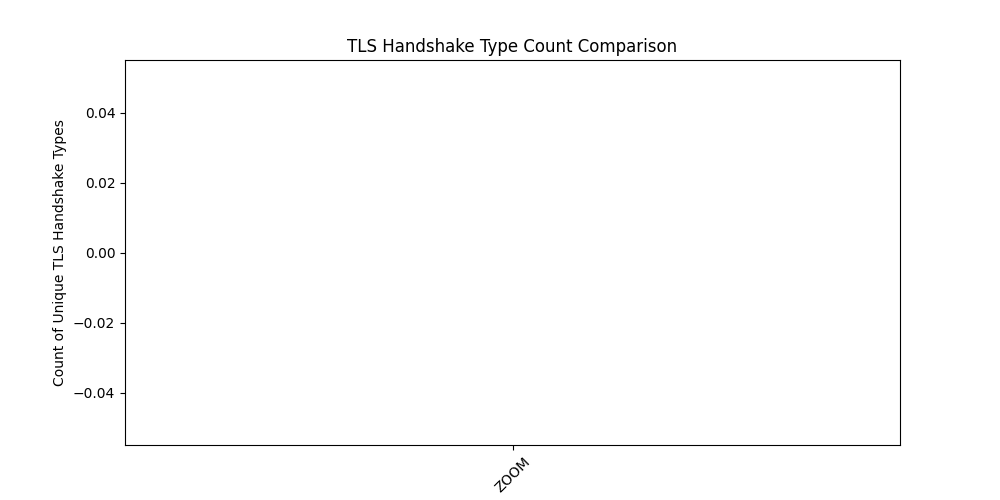
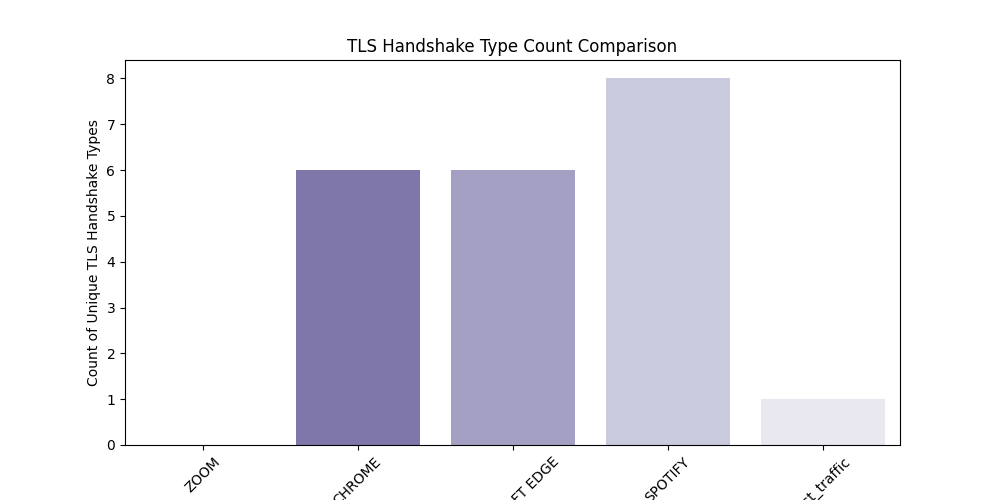
סופי

diff --git a/src/main.py b/src/main.py
@@ -17,145 +17,156 @@ CSV_DIR = RESULTS_DIR / "CSV_files"
 GRAPH_DIR = RESULTS_DIR / "Graphs"
 COMPARE_DIR = RESULTS_DIR / "Graphs/compare"
 
-# Define required columns for comparison CSV
-REQUIRED_COLUMNS = [
-	"TYPE", "Avg_Packet_Size",
-    "Flow_Size (Bytes)", "Flow_Volume (Packets)", "Inter_Packet_Time_Mean"
-]
+# Ensure necessary directories exist
+os.makedirs(RESULTS_DIR, exist_ok=True)
+os.makedirs(CSV_DIR, exist_ok=True)
+os.makedirs(GRAPH_DIR, exist_ok=True)
+os.makedirs(COMPARE_DIR, exist_ok=True)
 
 
 def process_pcap_file(pcap_file):
-	"""Process a single .pcapng file, extract data, and generate graphs"""
-	app_name = os.path.splitext(pcap_file)[0]  # Extract the application name from the file
-	pcap_path = os.path.join(DATA_DIR, pcap_file)
+    """Process a single .pcapng file, extract data, and generate graphs"""
+    app_name = os.path.splitext(pcap_file)[0]  # Extract the application name from the file
+    pcap_path = os.path.join(DATA_DIR, pcap_file)
 
-	print(f"📊 Processing {pcap_file}...")
+    print(f"📊 Processing {pcap_file}...")
 
-	# Validate and analyze the file
-	FileManager.validate_file(pcap_path)
-	analyzer = PacketAnalyzer(pcap_path)
-	df = analyzer.extract_features()
+    # Validate and analyze the file
+    FileManager.validate_file(pcap_path)
+    analyzer = PacketAnalyzer(pcap_path)
+    df = analyzer.extract_features()
 
-	if df.empty:
-		print(f"⚠ No data extracted from {pcap_file}. Skipping...")
-		return None
+    if df.empty:
+        print(f"⚠ No data extracted from {pcap_file}. Skipping...")
+        return None
 
-	#Check if TCP columns exist before accessing them
-	if 'tcp_flags' in df.columns:
-		df['tcp_flags'] = df['tcp_flags'].fillna("None")  # Handle missing TCP flags
-	else:
-		df['tcp_flags'] = "None"  # If no TCP traffic, set a default value
+    # Check if TCP columns exist before accessing them
+    if 'tcp_flags' in df.columns:
+        df['tcp_flags'] = df['tcp_flags'].fillna("None")
+    else:
+        df['tcp_flags'] = "None"
 
-	#Handle RTT only if inter_packet_time & tcp_flags exist
-	if 'inter_packet_time' in df.columns and 'tcp_flags' in df.columns:
-		df['rtt'] = df.apply(lambda row: row['inter_packet_time'] if row.get('tcp_flags') == 16 else None, axis=1)
-	else:
-		df['rtt'] = None  # Default when no TCP exists
+    # Handle RTT only if inter_packet_time & tcp_flags exist
+    if 'inter_packet_time' in df.columns and 'tcp_flags' in df.columns:
+        df['rtt'] = df.apply(lambda row: row['inter_packet_time'] if row.get('tcp_flags') == 16 else None, axis=1)
+    else:
+        df['rtt'] = None
 
-	#Prevent division by zero when calculating Packet Loss Rate
-	total_packets = df['flow_volume'].sum() if 'flow_volume' in df.columns else 0
-	packet_loss_rate = 1 - (df.shape[0] / total_packets) if total_packets > 0 else 0  # Prevent zero division
+    # Prevent division by zero when calculating Packet Loss Rate
+    total_packets = df['flow_volume'].sum() if 'flow_volume' in df.columns else 0
+    packet_loss_rate = 1 - (df.shape[0] / total_packets) if total_packets > 0 else 0
 
-	#Compute key metrics safely
-	comparison_data = {
-		"TYPE": app_name,
-		"Avg_Packet_Size": df['packet_size'].mean() if 'packet_size' in df.columns else None,
-		"TCP_Seq_Count": df['tcp_seq'].nunique() if 'tcp_seq' in df.columns else None,
-		"TCP_Window_Size_Avg": df['tcp_window'].mean() if 'tcp_window' in df.columns else None,
-		"TLS_Handshake_Count": df['tls_handshake_type'].nunique() if 'tls_handshake_type' in df.columns else None,
-		"Primary_Protocol": df['transport'].mode()[0] if 'transport' in df.columns else "Unknown",
-		"Flow_Size (Bytes)": df['flow_size'].sum() if 'flow_size' in df.columns else None,
-		"Flow_Volume (Packets)": df['flow_volume'].sum() if 'flow_volume' in df.columns else None,
-		"Inter_Packet_Time_Mean": df['inter_packet_time'].mean() if 'inter_packet_time' in df.columns else None,
-		"TLS_Version": df['tls_version'].mode()[0] if 'tls_version' in df.columns else "Unknown",
-		"TLS_Cipher_Suite": df['tls_cipher_suite'].mode()[0] if 'tls_cipher_suite' in df.columns else "Unknown",
-		"Packet_Loss_Rate": packet_loss_rate,
-		"Flow_Size": df['packet_size'].sum() if 'packet_size' in df.columns else None,
-		"RTT": df['rtt'].mean() if 'rtt' in df.columns else None,  # ✅ Now safely handled
-		"TCP_Flags": df['tcp_flags'].mode()[0] if 'tcp_flags' in df.columns else "Unknown"  # ✅ Handle missing TCP flags
-	}
+    # Compute key metrics safely
+    comparison_data = {
+        "Application": app_name,  # Ensure the key is "Application"
+        "Avg_Packet_Size": df['packet_size'].mean() if 'packet_size' in df.columns else None,
+        "TCP_Seq_Count": df['tcp_seq'].nunique() if 'tcp_seq' in df.columns else None,
+        "TCP_Window_Size_Avg": df['tcp_window'].mean() if 'tcp_window' in df.columns else None,
+        "TLS_Handshake_Count": df['tls_handshake_type'].nunique() if 'tls_handshake_type' in df.columns else None,
+        "Primary_Protocol": df['transport'].mode()[0] if 'transport' in df.columns else "Unknown",
+        "Flow_Size (Bytes)": df['flow_size'].sum() if 'flow_size' in df.columns else None,
+        "Flow_Volume (Packets)": df['flow_volume'].sum() if 'flow_volume' in df.columns else None,
+        "Inter_Packet_Time_Mean": df['inter_packet_time'].mean() if 'inter_packet_time' in df.columns else None,
+        "TLS_Version": df['tls_version'].mode()[0] if 'tls_version' in df.columns else "Unknown",
+        "TLS_Cipher_Suite": df['tls_cipher_suite'].mode()[0] if 'tls_cipher_suite' in df.columns else "Unknown",
+        "Packet_Loss_Rate": packet_loss_rate,
+        "Flow_Size": df['packet_size'].sum() if 'packet_size' in df.columns else None,
+        "RTT": df['rtt'].mean() if 'rtt' in df.columns else None,
+        "TCP_Flags": df['tcp_flags'].mode()[0] if 'tcp_flags' in df.columns else "Unknown"
+    }
 
-	#Generate graphs for the application
-	TrafficVisualizer.plot_traffic_characteristics(df, app_name, GRAPH_DIR)
+    # Generate graphs for the application
+    TrafficVisualizer.plot_traffic_characteristics(df, app_name, GRAPH_DIR)
 
-	return comparison_data
+    return comparison_data
+
 
 def menu():
-	"""Interactive menu to choose an option"""
-	print("Choose an option:")
-	print("1. Analysis only")
-	print("2. Classification only")
-	print("3. Both Analysis and Classification")
-	choice = input("Enter the number of your choice: ")
+    """Interactive menu to choose an option"""
+    print("\nChoose an option:")
+    print("1. Analysis only")
+    print("2. Classification only")
+    print("3. Both Analysis and Classification")
 
-	if choice == "1":
-		print("Running analysis only...")
-		main(action_type="analysis")
-	elif choice == "2":
-		print("Running classification only...")
-		main(action_type="classification")
-	elif choice == "3":
-		print("Running both analysis and classification...")
-		main(action_type="both")
-	else:
-		print("Invalid choice. Please select 1, 2, or 3.")
+    choice = input("Enter the number of your choice: ").strip()
+
+    if choice == "1":
+        print("Running analysis only...")
+        main(action_type="analysis")
+    elif choice == "2":
+        print("Running classification only...")
+        main(action_type="classification")
+    elif choice == "3":
+        print("Running both analysis and classification...")
+        main(action_type="both")
+    else:
+        print("Invalid choice. Please select 1, 2, or 3.")
+        menu()  # Restart menu on invalid input
 
 
-def main(input_file=None, action_type="classification"):
-	"""Runs analysis on a single file (if specified) or processes all .pcapng files.
-	action_type determines which operation to run: 'both', 'classification', or 'analysis'."""
+def main(input_file=None, action_type=None):
+    """Runs analysis on a single file (if specified) or processes all .pcapng files."""
 
-	# Ensure necessary directories exist
-	os.makedirs(RESULTS_DIR, exist_ok=True)
-	os.makedirs(CSV_DIR, exist_ok=True)
-	os.makedirs(GRAPH_DIR, exist_ok=True)
-	os.makedirs(COMPARE_DIR, exist_ok=True)
+    if action_type is None:
+        menu()  # If no action is provided, open the menu.
 
-	results = []
+    results = []
+    comparison_csv = os.path.join(CSV_DIR, "comparison_results.csv")
 
-	if action_type == "both" or action_type == "analysis":
-		# Run the application analysis (graphs and files generation)
-		if input_file:
-			results.append(process_pcap_file(input_file))
-		else:
-			# Process all .pcapng files in the directory
-			pcap_files = [f for f in os.listdir(DATA_DIR) if f.endswith(".pcapng")]
-			if not pcap_files:
-				print("⚠ No .pcapng files found in data/ directory. Please add some recordings.")
-				return
-			for pcap_file in pcap_files:
-				result = process_pcap_file(pcap_file)
-				if result:
-					results.append(result)
+    # Load existing results if the file exists
+    if os.path.exists(comparison_csv):
+        existing_df = pd.read_csv(comparison_csv)
+    else:
+        existing_df = pd.DataFrame()
 
-	if action_type == "both" or action_type == "classification":
-		# Skip processing PCAP files and directly classify using comparison CSV
-		comparison_csv = os.path.join(CSV_DIR, "comparison_results.csv")
-		if os.path.exists(comparison_csv):
-			# Load the model using pickle
-			model_path = os.path.join(os.path.dirname(os.getcwd()), 'model/my_trained_model.pkl')
-			try:
-				with open(model_path, 'rb') as f:
-					model = pickle.load(f)
-					print("✅ Model loaded successfully.")
-			except Exception as e:
-				print(f"❌ Error loading the model: {e}")
+    if action_type == "both" or action_type == "analysis":
+        if input_file:
+            results.append(process_pcap_file(input_file))
+        else:
+            pcap_files = [f for f in os.listdir(DATA_DIR) if f.endswith(".pcapng")]
+            if not pcap_files:
+                print("⚠ No .pcapng files found in data/ directory.")
+                return
+            for pcap_file in pcap_files:
+                result = process_pcap_file(pcap_file)
+                if result:
+                    results.append(result)
 
-				return
+    # Convert new results to DataFrame
+    new_results_df = pd.DataFrame(results)
 
-			# Create classifier and perform classification
-			classifier = TrafficClassifier(model=model, feature_columns=[
-				"Flow_Size (Bytes)", "Flow_Volume (Packets)", "Avg_Packet_Size", "Inter_Packet_Time_Mean"])
-			classifier.classify_comparison_data(comparison_csv)
-			df_comparison = pd.read_csv(comparison_csv)
-			classifier.evaluate_predictions(df_comparison)
-		else:
-			print("⚠ No comparison res CSV found, skipping classification.")
+    # Concatenate old and new results, remove duplicates
+    if not new_results_df.empty:
+        comparison_df = pd.concat([existing_df, new_results_df], ignore_index=True).drop_duplicates()
+        comparison_df.to_csv(comparison_csv, index=False)
 
-	if action_type == "analysis":
-		# If only analysis is required, skip classification
-		print("✅ Analysis completed! No classification was performed.")
+    if action_type == "both" or action_type == "classification":
+        if os.path.exists(comparison_csv):
+            model_path = os.path.join(os.path.dirname(os.getcwd()), 'model/my_trained_model.pkl')
+            try:
+                with open(model_path, 'rb') as f:
+                    model = pickle.load(f)
+                    print("✅ Model loaded successfully.")
+            except Exception as e:
+                print(f"❌ Error loading the model: {e}")
+                return
+
+            classifier = TrafficClassifier(model=model, feature_columns=[
+                "Flow_Size (Bytes)", "Flow_Volume (Packets)", "Avg_Packet_Size", "Inter_Packet_Time_Mean"
+            ])
+            classifier.classify_comparison_data(comparison_csv)
+            df_comparison = pd.read_csv(comparison_csv)
+            classifier.evaluate_predictions(df_comparison)
+        else:
+            print("⚠ No comparison results CSV found, skipping classification.")
+
+    if action_type == "analysis":
+        print("✅ Analysis completed! Comparison results saved.")
+
+    print("📊 Generating comparison graphs...")
+    TrafficVisualizer.compare_results(comparison_csv)
+    print("✅ Comparison graphs saved.")
 
 
 if __name__ == "__main__":
-	menu()
+    menu()
